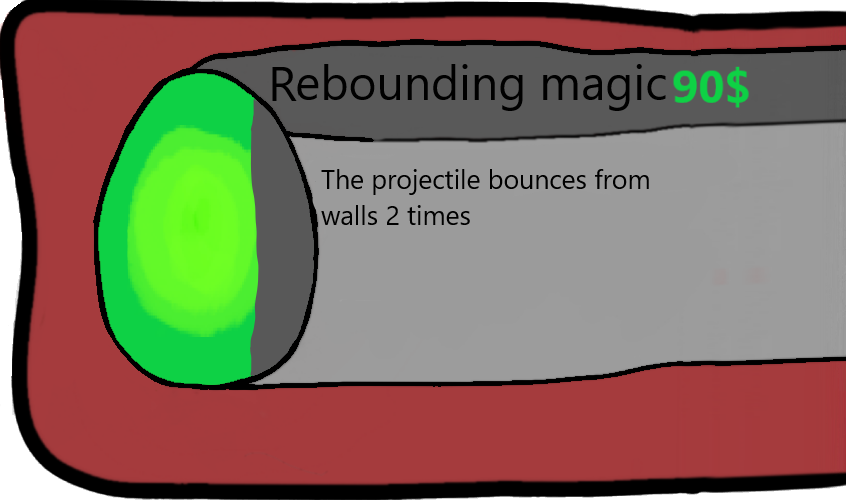
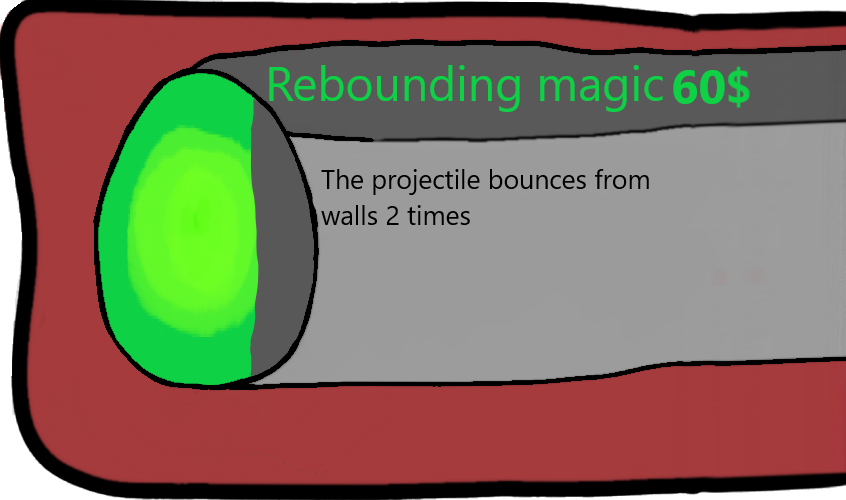
DO FIRE
U STUPID, GIB

Changed region(s): [[0.3073, 0.12, 0.8913, 0.24]]

diff --git a/BTD 0.py b/BTD 0.py
@@ -686,6 +686,7 @@ def blnM():
                 if e.f>21:
                     health-=e.H
                     murder.append(e)
+
                     e.f=0
                     if health<0:
                         death(100,h//2-200)
@@ -816,6 +817,15 @@ def upgrade():
                                         e.I=loadify('cyborg')
                                         e.P=[80,1,1]
                                         cl=0
+                            elif e.F==3 and e.f<3:
+                                if money>399:
+                                    for e in lvlup:
+                                        e.F=4
+                                        money-=400
+                                        e.ID=loadify('drtbomb')
+                                        e.I=loadify('bombsuit')
+                                        #e.P=[160,3,1,[fire,[120,50,3]]]
+                                        cl=0
 
                         elif e.MID==2:
                             if e.F==0:
@@ -930,18 +940,25 @@ def upgrade():
                                         e.H+=+2
                                         e.f=2
                                         money-=40
-                                        e.I=loadify('beefdrtmonk')
-                                        e.ID=loadify('beefdrt')
+                                        if e.F<3:
+                                            e.I=loadify('beefdrtmonk')
+                                            e.ID=loadify('beefdrt')
                                         cl=0
                             elif e.f==2 and e.F<3:
                                 if money>99:
-                                    for r in range(3):
+                                    for r in range(9):
+                                        r+=1
                                         if e.F>0:
-                                            r/=2
-                                        if r*9.5<e.DS:
-                                            e.H+=3
-                                    e.DS += 2
-                                    e.H += +2
+                                            r*=2
+                                        if r*1.5<e.DS:
+                                            e.H+=1
+                                        else:
+                                            break
+                                    if e.F>0:
+                                        e.DS += 4
+                                    else:
+                                        e.DS += 2
+                                    e.H += 3
                                     e.f = 3
                                     money -= 100
                                     e.ID = loadify('beefyerdrt')
@@ -1002,10 +1019,10 @@ def upgrade():
                                         e.dmg+=3
                                         cl = 0
                             elif e.f==1:
-                                if money > 89:
+                                if money > 59:
                                     for e in lvlup:
                                         e.f = 2
-                                        money -= 90
+                                        money -= 60
                                         e.bounce+=2
                                         cl = 0
 
@@ -1047,6 +1064,8 @@ def menuAB(MT,UPGNUM,PGNUM):
             screen.blit(loadify('nope'),(1100,0))
         elif UPGNUM==2:
             screen.blit(loadify('explodedrt'),(1100,0))
+        elif UPGNUM==3:
+            screen.blit(loadify('incendiary'),(1100,0))
     if MT == 2:
         if UPGNUM==0:
             screen.blit(loadify('turretmenu'),(1100,0))
@@ -1232,7 +1251,7 @@ bloonamount=loadify("killerrock")
 drts3=[]
 bloonumba=1
 bloonprices=[ [[1,0.1],[2,0.23]], [[2,0.2],[4,0.5]], [[3,0.3],[6,0.77]], [[4,0.4],[7,0.9]], [[5,0.5],[10,1.3]],
-             [[10,1],[24,2]], [[14,1.2],[30,2.2]], [[14,1.2],[30,2.2]], [[10,0.9],[24,2]], [[90,0.25],[200,0.5]], [[300,0],[500,0]], [[800,1]],[[1800,-50]] ]
+             [[10,1],[24,2]], [[14,1.2],[30,2.2]], [[14,1.2],[30,2.2]], [[10,0.9],[24,2]], [[90,0.25],[150,0.5]], [[300,0],[500,0]], [[800,1]],[[1800,-50]] ]
 while running:
     XX = pygame.mouse.get_pos()
     for event in pygame.event.get():
@@ -1265,7 +1284,7 @@ while running:
                         if money>24:
                             money-=25
                             drtmonks.append(drtmonkey(XX[0]-60,XX[1]-80,loadify('drtmonk')
-                                                  ,0,0,10+random.randint(-9,10),1
+                                                  ,0,0,10+random.randint(-9,10),1          #10+random.randint(-9,10)
                                                   ,200+random.randint(-120,120),loadify('drtn'),-10,[0,0],[0,0]))
                     elif select==1:
                         if money>74:
@@ -1482,7 +1501,7 @@ while running:
                                 drts2.remove(d)
                                 d.kill()
                                 del d
-
+    moida()
     for e in factories:
         if (ti-e.C)> e.c:
             if not len(e.spikeX)<4:                
@@ -1717,7 +1736,7 @@ while running:
             e.S=0
             e.s=0
             mines.remove(e)
-    moida()
+
 
 
 

diff --git a/btdserver.py b/btdserver.py
@@ -131,8 +131,9 @@ class timer(object):
 f=1
 updates=[]
 rn=5
+spc=0
 def rnd(b):
-    global rn,players,nextround,ch
+    global rn,players,nextround,ch,spc
     if b==0:
         nextround = 0
         rn+=1
